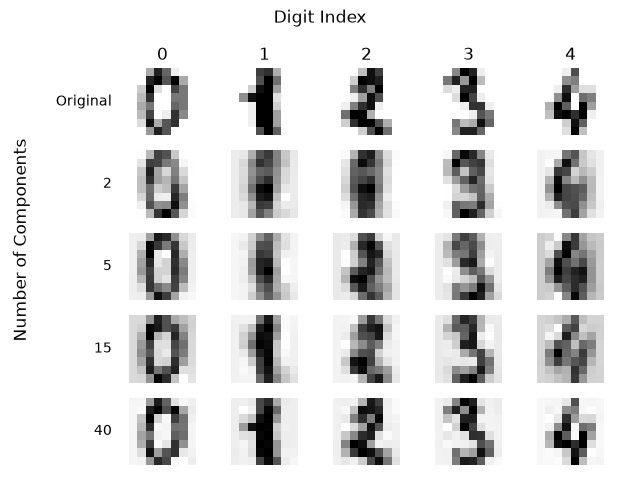
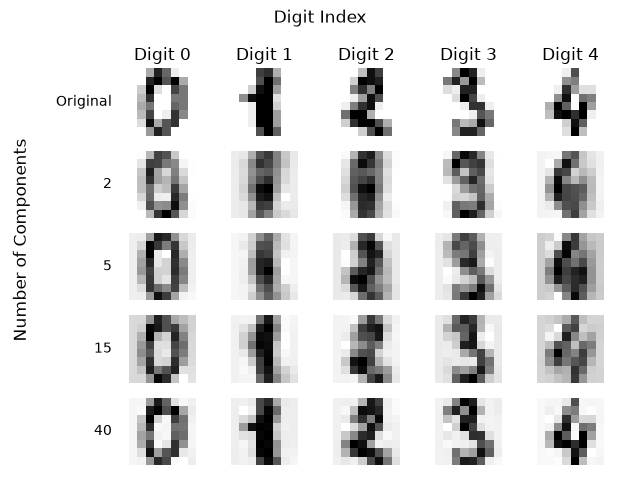
Improve explanation comments, fixed minor error in codes

diff --git a/assignments_03/project_03.py b/assignments_03/project_03.py
@@ -14,14 +14,9 @@ from sklearn.neighbors import KNeighborsClassifier
 from sklearn.metrics import (
     confusion_matrix,
     ConfusionMatrixDisplay,
-    accuracy_score,
-    precision_score,
-    recall_score,
-    f1_score,
     classification_report
 )
 from sklearn.ensemble import RandomForestClassifier
-from sklearn.inspection import DecisionBoundaryDisplay
 from sklearn.decomposition import PCA
 
 from sklearn.pipeline import Pipeline
@@ -114,9 +109,10 @@ print('Number of different spam_labels:')
 print(df['spam_label'].value_counts())
 print()
 # There are 4601 emails in the dataset.
-# The class are slightly imbalanced in a 60-40 split.
+# The class are slightly imbalanced in a 2788 spam / 60.6% vs 1813 ham / 39.4%.
 # With imbalanced dataset, accuracy high doesn't directly translate into a good prediction,
-# as blind guess could be >80% accurate if the classes are 80-20 split.
+# as blind guess could be 60.6% accurate without learning anything.
+# Hence, using F1-score is a better alternative as it balances both precision and recall as well.
 
 key_features = ['word_freq_free', 'char_freq_!', 'capital_run_length_total']
 for feature in key_features:
@@ -126,8 +122,9 @@ for feature in key_features:
     plt.ylabel('Spam Label')
     plt.savefig(f'assignments_03/outputs/{feature}_spam.png')
     plt.close()
-# For spam email, the frequency of `free` is much higher than that of non spam emails (almost 0)
-# The frequency of `!` and Capital run length are also significantly higher for spam emails
+# For spam email, the frequency of `free` is much higher, with median almost 0.2 and IQR > 0.6.
+# For ham email, the whole box is at 0, which means they akmost don't contain `free` except some outliers.
+# The median and IQR of the frequency of `!` and Capital run length are also significantly higher for spam emails, heavily skewed right.
 
 print('Data description (Full):')
 print(df.describe())
@@ -141,13 +138,11 @@ print('Data description (Ham):')
 print(df[df['spam_label'] == 0].describe())
 print()
 
-# The heavy skew toward zero tells me that the word and char frequency are chosen carefully,
-# those are the words that appears frequently in spam emails but not ham emails.
+# The heavy skew toward zero indicates sparsity, which in NLP, most words are absent due to the nature of language.
 # The numeric scale for word_freq are normally under 20, while the capital run length can go up to thousands.
-# This is cause by for a normally passage, word count should not exceed thousand, and among the words,
-# it is almost impossible for the same word to be used repeated extensively, otherwise the passage will not be readable.
-# However, for the capital count, it is counting characters instead of words, and full capitalized email are still readable.
-# This may affect the models which are sensitive to numeric scale, like regressions and deep learning models, scaling may have to be done.
+# This is because the word_freq are measured as percentage relative to total length; while for capital count, it is counting raw continuous characters,
+# which scales with email length and can easily reach hundreds or thousands.
+# This may affect the distance-based models which are sensitive to numeric scale, like regressions and deep learning models, scaling may have to be done.
 
 # Task 2: Prepare Your Data
 # Train-Test Split
@@ -166,7 +161,10 @@ print(f'X_test shape: {X_test.shape}')
 print(f'y_train shape: {y_train.shape}')
 print(f'y_test shape: {y_test.shape}')
 
-# Scaling by StandardScaler()
+# Scaling by StandardScaler() in order to bring the scale of the numeric features comparable.
+# Not using MinMaxScaler() because there are extreme values in features like capital_run_length,
+# MinMaxScaler() will squish most of the numbers to a very small value.
+# It is only fit on training set to prevent data leakage.
 scaler = StandardScaler()
 X_train_scaled = pd.DataFrame(
     scaler.fit_transform(X_train),
@@ -275,8 +273,7 @@ print(dt_top_10)
 rf_top_10 = pd.Series(X_train.columns[np.argsort(rf.feature_importances_)[-10:][::-1]])
 print('Top 10 most important features for Random Forest:')
 print(rf_top_10)
-# The two models agreed on 6 out of the 10 most important features, which mostly aligned with what I expect, like the
-# excessive use of capital letters and exclamation marks, as well as focusing on money.
+# The two models agreed on 6 out of the 10 most important features (60%), which mostly aligned with what I expect, like the excessive use of capital letters and exclamation marks to emphasize on urgency, as well as focusing on money for financial motivation.
 
 # Bar chart for RF
 plt.bar(X_train.columns, rf.feature_importances_)
@@ -299,17 +296,15 @@ lr_pca.fit(X_train_pca, y_train)
 print('=== Logistic Regression on PCA Data ===')
 model_report(lr_pca, X_test_pca, y_test)
 
-# The accuracy, precision, recall and f1-score are all slightly higher for plain Logistic Regression on scaled data instead of the PCA
-# which is expected. However, the difference is not too far off, so for performance sake, choosing PCA is a good option. 
+# The accuracy, precision, recall and f1-score are all slightly higher for plain Logistic Regression on scaled data instead of the PCA, which is expected as PCA discarded low variance components, albeit low, still exists. However, the difference is not too far off, so if computational efficiency or memory constraint are important, choosing PCA is a good option. 
 
-# In summary, the best performing model is the Random Forest with n_estimators=100. It has the highest metric across accuracy, precision, recall and f1-score.
-# The accuracy, precision, recall and f1-score are all slightly higher for scaled data instead of the PCA
-# which is expected. However, the difference is not too far off, so for performance sake, choosing PCA is a good option. 
+# In summary, the best performing model is the Random Forest with n_estimators=100. It has the highest metric across accuracy, precision, recall and f1-score at 0.94.
 
 # Pure accuracy is not the best metric to optimize in a spam classification task.
 # To me, I would like to minimize the false positives, as email is a daily conversation tool,
 # as well as business essentials. Any false positive can be devastating to a user or business.
 # Spam detection should just be a first line of defence, not completely filtering all possible emails.
+# Hence, Precision should be chosen for me.
 
 y_pred = rf.predict(X_test)
 cm = confusion_matrix(y_test, y_pred)
@@ -318,7 +313,7 @@ cmd.plot(cmap='coolwarm', text_kw={'color': 'black'})
 plt.savefig('assignments_03/outputs/best_model_confusion_matrix.png')
 plt.close()
 
-# With respect to the confusion matrix, the most error the model made was the false negative, which is what I would like to be.
+# With respect to the confusion matrix, the most error the model made was the false negative, which is what I would like to be, instead of false positive.
 
 # Task 4: Cross-Validation
 models = {
@@ -327,15 +322,17 @@ models = {
     'rf': RandomForestClassifier(n_estimators=100, random_state=42),
     'lr': LogisticRegression(C=1.0, max_iter=1000, solver='liblinear')
 }
+print('=== CV results on each classifiers ===')
 for name, model in models.items():
     if name in ['knn', 'lr']:
         cv = cross_val_score(model, X_train_scaled, y_train, cv=5)
     else:
         cv = cross_val_score(model, X_train, y_train, cv=5)
-    print(f'Mean of {name}: {cv.mean():.4f}; Std of {name}: {cv.std():.4f}')
-
-# Most accurate model is RandomForest with 0.9541 mean accuracy at highest, 
-# while KNN is the most stable, with std lowest at 0.0094. The ranking is the same with just basic train-test split.
+    print(f"{f'Mean of {name}: ':<15}{f'{cv.mean():.4f};\t':>11}{f'Std of {name}: ':<15}{f'{cv.std():.4f}':>7}")
+print()
+# Most accurate model is RandomForest with highest overall performance with a mean cv accuracy of 0.9541. 
+# Most stable model is KNN with lowest standard deviation at 0.0094. 
+# The ranking is the same with just basic train-test split, which means it is not just a lucky/unlucky train-test split.
 
 # Task 5: Building a Prediction Pipeline
 
@@ -358,15 +355,22 @@ non_tree_pipeline = Pipeline(
         ('classifier', LogisticRegression(C=1.0, max_iter=1000, solver='liblinear'))
     ]
 )
+# PCA was not included as it didn't improve the model performance in Task 3
 non_tree_pipeline.fit(X_train, y_train)
 y_pred = non_tree_pipeline.predict(X_test)
 print('Classification report of the best non-tree model:')
 print(classification_report(y_test, y_pred))
 print()
 
-# The pipeline of non-tree has the additional scaler to the tree pipeline.
+
+# The pipeline of non-tree model has the additional scaler to the tree pipeline.
 # That is because tree-based models are not sensitive to numeric range, 
 # so it is not necessary to scale the input or perform PCA on it.
+
+# The pipeline of the non-tree model also didn't have the PCA, as per previous discussion,
+# the models perform better without PCA, and with a simple model and small dataset like this,
+# model without PCA doesn't improve efficiency a lot.
+
 # Packaging a model this way provides a more clear structure on how the pipeline is built,
 # as well as easier to maintain when we want to change a part of the flow.
 # This increases stability when handing off to someone else or deploying it,

diff --git a/assignments_03/warmup_03.py b/assignments_03/warmup_03.py
@@ -10,7 +10,6 @@ from sklearn.tree import DecisionTreeClassifier
 from sklearn.linear_model import LogisticRegression
 from sklearn.multiclass import OneVsRestClassifier
 from sklearn.metrics import (
-    accuracy_score,
     classification_report,
     confusion_matrix,
     ConfusionMatrixDisplay
@@ -133,12 +132,11 @@ images   = digits.images  # same data shaped as 8x8 images for plotting
 print(f'Shape of X_digits: {X_digits.shape}')
 print(f'Shape of images: {images.shape}')
 
-np.random.seed(42)
-random_indices = [
-    np.random.choice(np.where(y_digits == i)[0]) 
+indices = [
+    np.where(y_digits == i)[0][0]
     for i in range(10)
 ]
-example_images = images[random_indices]
+example_images = images[indices]
 
 _, axes = plt.subplots(1, 10)
 for i in range(10):
@@ -151,7 +149,7 @@ plt.close()
 
 # Q2
 pca = PCA()
-pca.fit(X_digits, y_digits)
+pca.fit(X_digits)
 scores = pca.transform(X_digits)
 
 scatter = plt.scatter(scores[:, 0], scores[:, 1], c=y_digits, cmap='tab10', s=10)  # c = color array
@@ -180,19 +178,24 @@ def reconstruct_digit(sample_idx, scores, pca, n_components):
 
 
 fig, axes = plt.subplots(5, 5)
+
+# Original digits
+for idx in range(5):
+    axes[0, idx].imshow(images[idx], cmap='gray_r')
+    axes[0][idx].axis('off')
+    axes[0][idx].set_title(f'Digit {idx}')
+axes[0][0].text(-0.25, 0.5, 'Original', transform=axes[0][0].transAxes,
+                        va='center', ha='right')
+
+# Row 1 to 4
 n_components = [2, 5, 15, 40]
-for row, n in enumerate(['Original'] + n_components):
+for row, n in enumerate(n_components):
     for idx in range(5):
-        if row == 0:
-            axes[row][idx].imshow(images[idx], cmap='gray_r')
-            axes[row][idx].axis('off')
-            axes[row][idx].set_title(f'{idx}')
-        else:
-            reconstructed_im = reconstruct_digit(idx, scores, pca, n)
-            axes[row][idx].imshow(reconstructed_im, cmap='gray_r')
-            axes[row][idx].axis('off')
+        reconstructed_im = reconstruct_digit(idx, scores, pca, n)
+        axes[row + 1][idx].imshow(reconstructed_im, cmap='gray_r')
+        axes[row + 1][idx].axis('off')
         if idx == 0:
-            axes[row][idx].text(-0.25, 0.5, f'{n}', transform=axes[row][idx].transAxes,
+            axes[row + 1][idx].text(-0.25, 0.5, f'{n}', transform=axes[row + 1][idx].transAxes,
                         va='center', ha='right')
 fig.supylabel('Number of Components')
 fig.suptitle('Digit Index')
